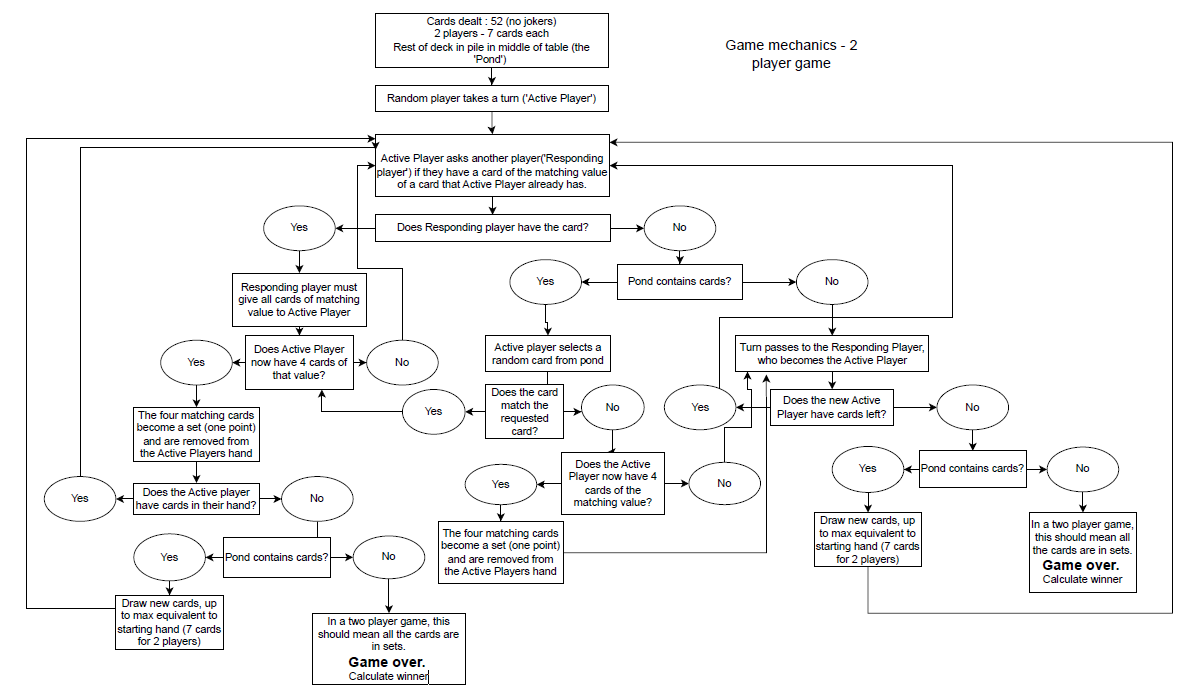
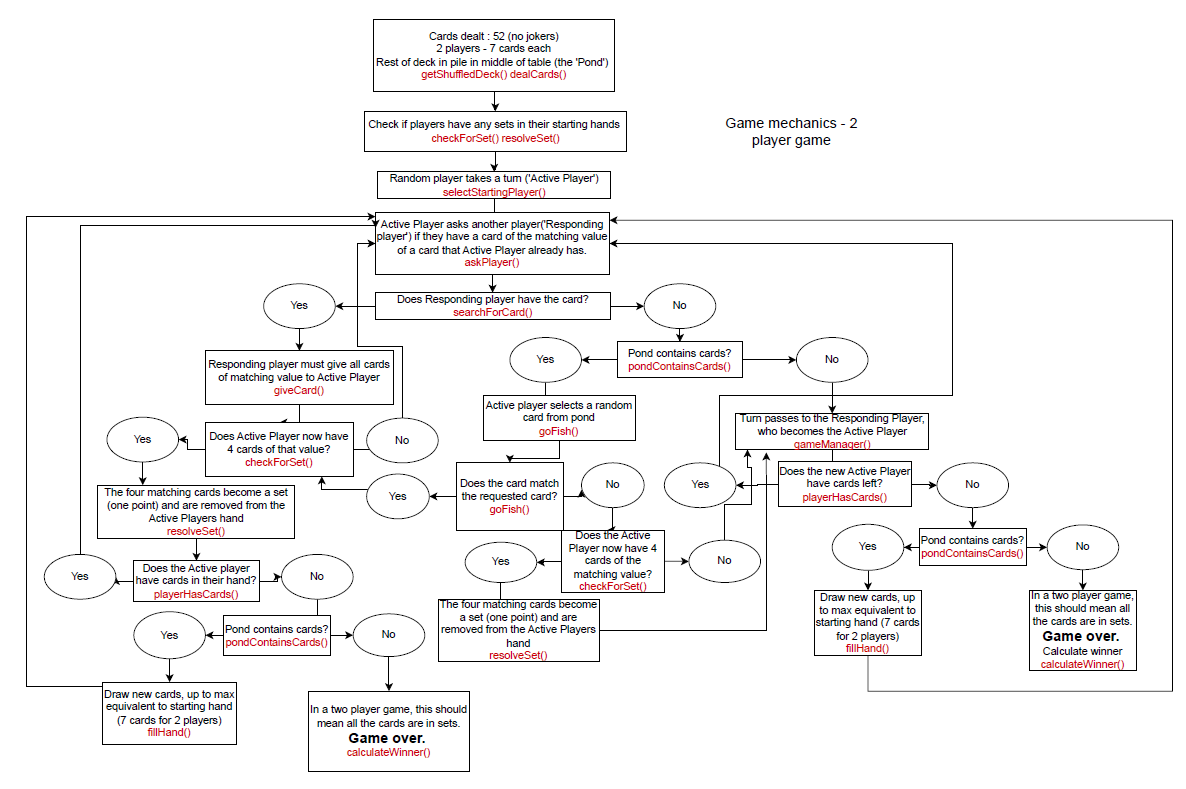
added functions to flow chart for game mechanics

diff --git a/README.md b/README.md
@@ -16,25 +16,47 @@ Angu testing his commit and pushes
    - 2 players, 7 cards
    - 3 players, 6 cards
    - 4 players, 5 cards
+
 1. getShuffledDeck() => deck  
    Sends a GET request via proxy server to [Deck Of Cards API](https://deckofcardsapi.com/) draw a card option,
    drawing 52 cards from a new shuffled deck. Returns the shuffled deck of cards.
+
+1. selectStartingPlayer(player[]) => player  
+   Return randomised starting player
+
 1. dealCards(numOfPlayers, deck) => players, deck
    Takes a deck of cards and the number of players and returns an array of player objects and the remaining deck. Each player object will have a hand of cards, starting at the amount of maxCards. The remaining deck becomes the pond of cards.
-1. pondContainsCards(deck) => true/false  
+
+1. pondContainsCards(deck) => boolean  
    Checks if the pond/deck still contains cards by checking length of card array and returns true/false
-1. goFish(player, deck) => player, deck  
-   Requires pond to have cards. Removes one card from the deck and adds it to the players hand. Returns the updated player/deck
+
+1. goFish(player, deck, requestedCardValue) => player, deck, boolean  
+   Requires pond to have cards. Removes one card from the deck and adds it to the players hand. Checks if card matches the requested cardValue. Returns the updated player/deck and boolean for whether the card matched the card originally requested of the player.
+
 1. fillHand(player, deck) => player, deck
    Requires pond to have cards. Fills the hand of the player up to the maxCard amount (less if there are less left in the pile).
-1. checkForSet(player) => player  
-   Checks for sets of four cards of the same value in the player's hand. Removes sets and adds 1 to player's set count.
+
+1. checkForSet(player) => boolean
+   Checks for sets of four cards of the same value in the player's hand.
+
+1. resolveSet(player) => player  
+   Removes sets and adds 1 to player's set count.
+
 1. askPlayer(player) => card value
    Active Player is prompted to ask another player for a card of the same value as one of the cards the Active Player has in its hand. Perhaps they tap one of the cards in their hand to do this, or could have buttons that pop up with the values they can ask for. Returns the selected card value
+
+1. searchForCard(player, cardValue) => number  
+   Checks if a player has any cards of a particular value. Returns the number of matching cards (0 if none found)
+
 1. giveCard(player) => card[], player
    If the responding player has any matching cards in their hand, they must give all of these to the Active Player. The cards are removed from the player's hand.
+
 1. calculateWinner(player[])=> player[]
    Check the value of the sets property on the player object, return array of player objects of player(s) that have won (could be more than one if it's a draw)
+
+1. playerHasCards(player) => boolean  
+   Return true if player has cards in their hand, false if none
+
 1. gameManager() => void  
    Runs the game (prompts etc) and controls turns
 
